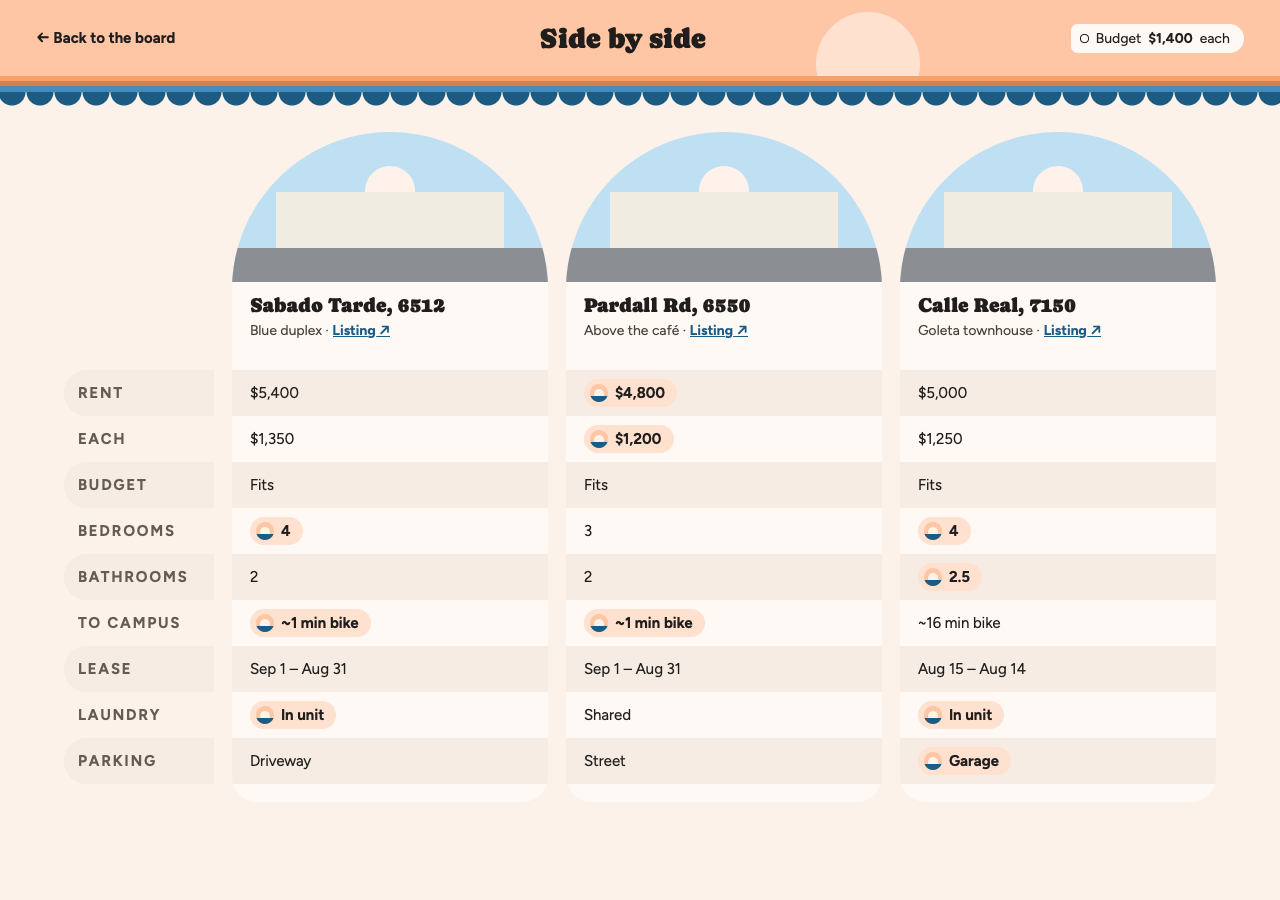
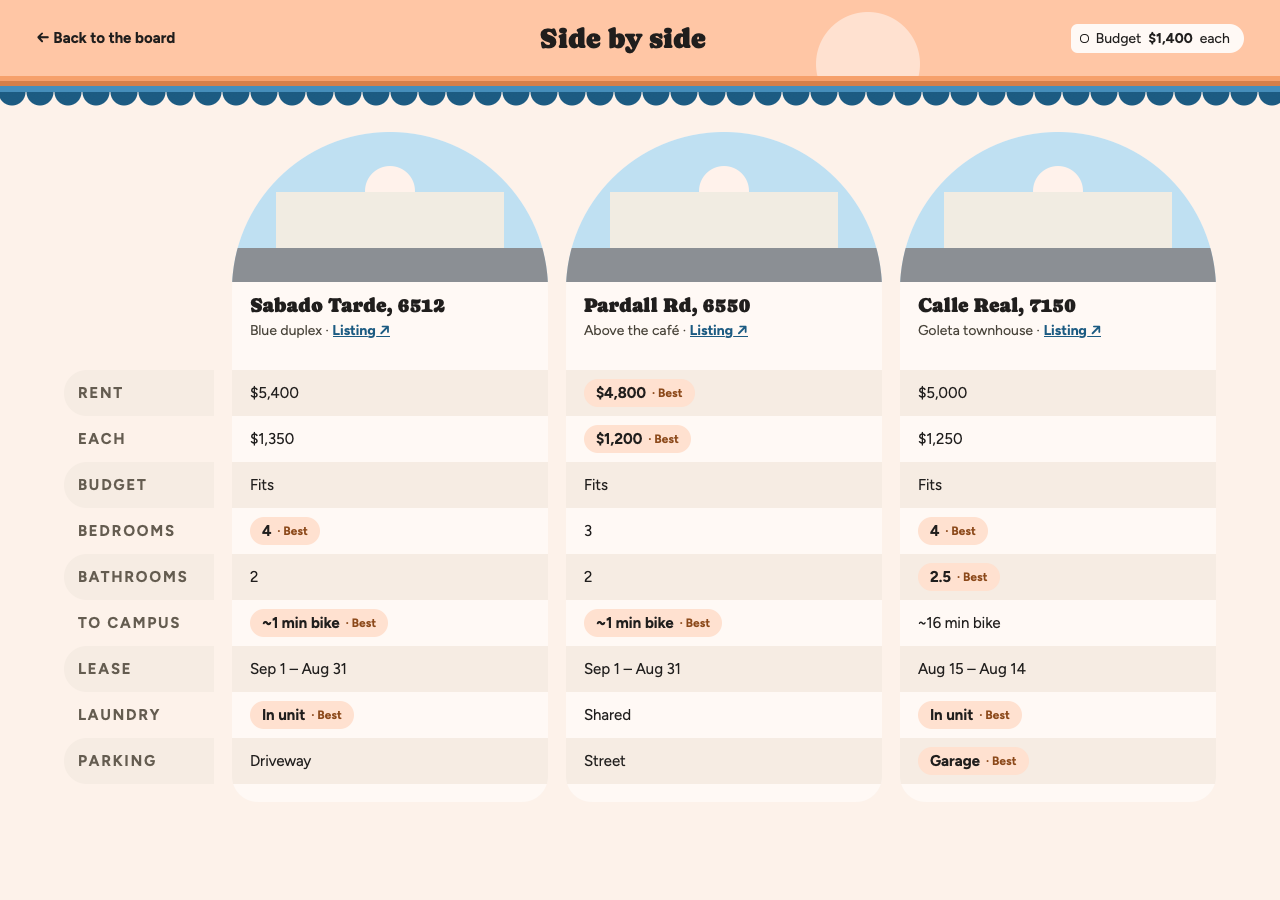
Docs: familiar symbols for controls
Star stays for the shortlist, the rank fit is five one-color boards with
the number, and Compare says Best instead of using the sun, which only
means "Corral found this".

diff --git a/docs/handoff/identity-pass/designs/rank.html b/docs/handoff/identity-pass/designs/rank.html
@@ -151,16 +151,17 @@ body{margin:0}
               <span class="f" style="font-size: 20px">$1,350 each</span>
             </div>
             <div aria-label="Fit 6.3 out of 10" style="display: flex; align-items: flex-end; gap: 3px; height: 22px">
-              <span style="width: 8px; height: 16px; border-radius: 4px 4px 1px 1px; background: #f6a06b"></span><span style="width: 8px; height: 20px; border-radius: 4px 4px 1px 1px; background: #d67f48"></span><span style="width: 8px; height: 14px; border-radius: 4px 4px 1px 1px; background: #458ebb"></span><span style="width: 8px; height: 18px; border-radius: 4px 4px 1px 1px; background: #1c5b82"></span><span style="width: 8px; height: 22px; border-radius: 4px 4px 1px 1px; background: #8fa073"></span><span style="width: 8px; height: 15px; border-radius: 4px 4px 1px 1px; background: #f6a06b"></span><span style="width: 8px; height: 19px; border-radius: 4px 4px 1px 1px; background: #eadfd3"></span><span style="width: 8px; height: 17px; border-radius: 4px 4px 1px 1px; background: #eadfd3"></span><span style="width: 8px; height: 21px; border-radius: 4px 4px 1px 1px; background: #eadfd3"></span><span style="width: 8px; height: 16px; border-radius: 4px 4px 1px 1px; background: #eadfd3"></span>
-              <span style="margin-left: 8px; font-size: 13px; font-weight: 700; color: #474238">Good fit</span>
+              <span style="width: 12px; height: 22px; border-radius: 6px 6px 2px 2px; background: linear-gradient(to top, #1c5b82 100%, transparent 100%); box-shadow: inset 0 0 0 1.5px #1c5b82"></span><span style="width: 12px; height: 22px; border-radius: 6px 6px 2px 2px; background: linear-gradient(to top, #1c5b82 100%, transparent 100%); box-shadow: inset 0 0 0 1.5px #1c5b82"></span><span style="width: 12px; height: 22px; border-radius: 6px 6px 2px 2px; background: linear-gradient(to top, #1c5b82 100%, transparent 100%); box-shadow: inset 0 0 0 1.5px #1c5b82"></span><span style="width: 12px; height: 22px; border-radius: 6px 6px 2px 2px; background: linear-gradient(to top, #1c5b82 0%, transparent 0%); box-shadow: inset 0 0 0 1.5px #1c5b82"></span><span style="width: 12px; height: 22px; border-radius: 6px 6px 2px 2px; background: linear-gradient(to top, #1c5b82 0%, transparent 0%); box-shadow: inset 0 0 0 1.5px #1c5b82"></span>
+              <span class="f" style="margin-left: 10px; font-size: 18px">6.3</span>
+              <span style="font-size: 14px; font-weight: 700; color: #474238">· Good fit</span>
             </div>
             
               <span style="display: flex; align-items: center; gap: 8px; font-size: 14px; color: #474238">
-                <span aria-hidden="true" style="width: 14px; height: 14px; border-radius: 7px; flex-shrink: 0; background: #ffc6a5; box-shadow: inset 0 -5px 0 #1c5b82"></span>About 1 min bike to campus
+                <span style="width: 14px; flex-shrink: 0; text-align: center; font-weight: 700; color: #1c5b82">+</span>About 1 min bike to campus
               </span>
             
               <span style="display: flex; align-items: center; gap: 8px; font-size: 14px; color: #474238">
-                <span aria-hidden="true" style="width: 14px; height: 14px; border-radius: 7px; flex-shrink: 0; background: #e5f5fd; box-shadow: inset 0 -5px 0 #82796a"></span>Only $50 under your max
+                <span style="width: 14px; flex-shrink: 0; text-align: center; font-weight: 700; color: #b2622d">−</span>Only $50 under your max
               </span>
             
             <div style="display: flex; align-items: center; gap: 18px; margin-top: auto">
@@ -186,16 +187,17 @@ body{margin:0}
               <span class="f" style="font-size: 20px">$1,200 each</span>
             </div>
             <div aria-label="Fit 6.2 out of 10" style="display: flex; align-items: flex-end; gap: 3px; height: 22px">
-              <span style="width: 8px; height: 16px; border-radius: 4px 4px 1px 1px; background: #f6a06b"></span><span style="width: 8px; height: 20px; border-radius: 4px 4px 1px 1px; background: #d67f48"></span><span style="width: 8px; height: 14px; border-radius: 4px 4px 1px 1px; background: #458ebb"></span><span style="width: 8px; height: 18px; border-radius: 4px 4px 1px 1px; background: #1c5b82"></span><span style="width: 8px; height: 22px; border-radius: 4px 4px 1px 1px; background: #8fa073"></span><span style="width: 8px; height: 15px; border-radius: 4px 4px 1px 1px; background: #f6a06b"></span><span style="width: 8px; height: 19px; border-radius: 4px 4px 1px 1px; background: #eadfd3"></span><span style="width: 8px; height: 17px; border-radius: 4px 4px 1px 1px; background: #eadfd3"></span><span style="width: 8px; height: 21px; border-radius: 4px 4px 1px 1px; background: #eadfd3"></span><span style="width: 8px; height: 16px; border-radius: 4px 4px 1px 1px; background: #eadfd3"></span>
-              <span style="margin-left: 8px; font-size: 13px; font-weight: 700; color: #474238">Good fit</span>
+              <span style="width: 12px; height: 22px; border-radius: 6px 6px 2px 2px; background: linear-gradient(to top, #1c5b82 100%, transparent 100%); box-shadow: inset 0 0 0 1.5px #1c5b82"></span><span style="width: 12px; height: 22px; border-radius: 6px 6px 2px 2px; background: linear-gradient(to top, #1c5b82 100%, transparent 100%); box-shadow: inset 0 0 0 1.5px #1c5b82"></span><span style="width: 12px; height: 22px; border-radius: 6px 6px 2px 2px; background: linear-gradient(to top, #1c5b82 100%, transparent 100%); box-shadow: inset 0 0 0 1.5px #1c5b82"></span><span style="width: 12px; height: 22px; border-radius: 6px 6px 2px 2px; background: linear-gradient(to top, #1c5b82 0%, transparent 0%); box-shadow: inset 0 0 0 1.5px #1c5b82"></span><span style="width: 12px; height: 22px; border-radius: 6px 6px 2px 2px; background: linear-gradient(to top, #1c5b82 0%, transparent 0%); box-shadow: inset 0 0 0 1.5px #1c5b82"></span>
+              <span class="f" style="margin-left: 10px; font-size: 18px">6.2</span>
+              <span style="font-size: 14px; font-weight: 700; color: #474238">· Good fit</span>
             </div>
             
               <span style="display: flex; align-items: center; gap: 8px; font-size: 14px; color: #474238">
-                <span aria-hidden="true" style="width: 14px; height: 14px; border-radius: 7px; flex-shrink: 0; background: #ffc6a5; box-shadow: inset 0 -5px 0 #1c5b82"></span>About 1 min bike to campus
+                <span style="width: 14px; flex-shrink: 0; text-align: center; font-weight: 700; color: #1c5b82">+</span>About 1 min bike to campus
               </span>
             
               <span style="display: flex; align-items: center; gap: 8px; font-size: 14px; color: #474238">
-                <span aria-hidden="true" style="width: 14px; height: 14px; border-radius: 7px; flex-shrink: 0; background: #e5f5fd; box-shadow: inset 0 -5px 0 #82796a"></span>3 bedrooms for 4 people
+                <span style="width: 14px; flex-shrink: 0; text-align: center; font-weight: 700; color: #b2622d">−</span>3 bedrooms for 4 people
               </span>
             
             <div style="display: flex; align-items: center; gap: 18px; margin-top: auto">
@@ -221,16 +223,17 @@ body{margin:0}
               <span class="f" style="font-size: 20px">$1,250 each</span>
             </div>
             <div aria-label="Fit 5.6 out of 10" style="display: flex; align-items: flex-end; gap: 3px; height: 22px">
-              <span style="width: 8px; height: 16px; border-radius: 4px 4px 1px 1px; background: #f6a06b"></span><span style="width: 8px; height: 20px; border-radius: 4px 4px 1px 1px; background: #d67f48"></span><span style="width: 8px; height: 14px; border-radius: 4px 4px 1px 1px; background: #458ebb"></span><span style="width: 8px; height: 18px; border-radius: 4px 4px 1px 1px; background: #1c5b82"></span><span style="width: 8px; height: 22px; border-radius: 4px 4px 1px 1px; background: #8fa073"></span><span style="width: 8px; height: 15px; border-radius: 4px 4px 1px 1px; background: #f6a06b"></span><span style="width: 8px; height: 19px; border-radius: 4px 4px 1px 1px; background: #eadfd3"></span><span style="width: 8px; height: 17px; border-radius: 4px 4px 1px 1px; background: #eadfd3"></span><span style="width: 8px; height: 21px; border-radius: 4px 4px 1px 1px; background: #eadfd3"></span><span style="width: 8px; height: 16px; border-radius: 4px 4px 1px 1px; background: #eadfd3"></span>
-              <span style="margin-left: 8px; font-size: 13px; font-weight: 700; color: #474238">Okay fit</span>
+              <span style="width: 12px; height: 22px; border-radius: 6px 6px 2px 2px; background: linear-gradient(to top, #1c5b82 100%, transparent 100%); box-shadow: inset 0 0 0 1.5px #1c5b82"></span><span style="width: 12px; height: 22px; border-radius: 6px 6px 2px 2px; background: linear-gradient(to top, #1c5b82 100%, transparent 100%); box-shadow: inset 0 0 0 1.5px #1c5b82"></span><span style="width: 12px; height: 22px; border-radius: 6px 6px 2px 2px; background: linear-gradient(to top, #1c5b82 100%, transparent 100%); box-shadow: inset 0 0 0 1.5px #1c5b82"></span><span style="width: 12px; height: 22px; border-radius: 6px 6px 2px 2px; background: linear-gradient(to top, #1c5b82 0%, transparent 0%); box-shadow: inset 0 0 0 1.5px #1c5b82"></span><span style="width: 12px; height: 22px; border-radius: 6px 6px 2px 2px; background: linear-gradient(to top, #1c5b82 0%, transparent 0%); box-shadow: inset 0 0 0 1.5px #1c5b82"></span>
+              <span class="f" style="margin-left: 10px; font-size: 18px">5.6</span>
+              <span style="font-size: 14px; font-weight: 700; color: #474238">· Okay fit</span>
             </div>
             
               <span style="display: flex; align-items: center; gap: 8px; font-size: 14px; color: #474238">
-                <span aria-hidden="true" style="width: 14px; height: 14px; border-radius: 7px; flex-shrink: 0; background: #ffc6a5; box-shadow: inset 0 -5px 0 #1c5b82"></span>4 bedrooms for 4 people
+                <span style="width: 14px; flex-shrink: 0; text-align: center; font-weight: 700; color: #1c5b82">+</span>4 bedrooms for 4 people
               </span>
             
               <span style="display: flex; align-items: center; gap: 8px; font-size: 14px; color: #474238">
-                <span aria-hidden="true" style="width: 14px; height: 14px; border-radius: 7px; flex-shrink: 0; background: #e5f5fd; box-shadow: inset 0 -5px 0 #82796a"></span>16 min bike to campus
+                <span style="width: 14px; flex-shrink: 0; text-align: center; font-weight: 700; color: #b2622d">−</span>16 min bike to campus
               </span>
             
             <div style="display: flex; align-items: center; gap: 18px; margin-top: auto">

diff --git a/docs/handoff/identity-pass/designs/compare.html b/docs/handoff/identity-pass/designs/compare.html
@@ -6,7 +6,7 @@ body{margin:0}
 .f{font-family:Caprasimo,Georgia,serif;font-weight:400}
 .k{font-size:11px;font-weight:700;letter-spacing:.12em;text-transform:uppercase;color:#645c50}
 .cell{height:46px;display:flex;align-items:center;padding:0 18px;font-size:15px}
-.win{display:inline-flex;align-items:center;gap:7px;background:#ffe1d0;border-radius:999px;padding:5px 12px 5px 6px;font-weight:700}
+.win{display:inline-flex;align-items:center;gap:6px;background:#ffe1d0;border-radius:999px;padding:5px 12px;font-weight:700}
 .sun{width:18px;height:18px;border-radius:9px;background:#ffc6a5;position:relative;overflow:hidden;flex-shrink:0}
 .sun:before{content:"";position:absolute;left:4px;top:5px;width:10px;height:10px;border-radius:5px;background:#fff2eb}
 .sun:after{content:"";position:absolute;left:0;right:0;bottom:0;height:6px;background:#1c5b82}
@@ -77,7 +77,7 @@ body{margin:0}
           </div>
         
           <div class="cell" style="background: transparent">
-            <span class="win"><span class="sun" aria-hidden="true"></span>4<span style="position: absolute; width: 1px; height: 1px; overflow: hidden; clip: rect(0 0 0 0)">(best)</span></span>
+            <span class="win">4<span style="font-size: 12px; font-weight: 700; color: #8c491a">· Best</span></span>
             
           </div>
         
@@ -87,7 +87,7 @@ body{margin:0}
           </div>
         
           <div class="cell" style="background: transparent">
-            <span class="win"><span class="sun" aria-hidden="true"></span>~1 min bike<span style="position: absolute; width: 1px; height: 1px; overflow: hidden; clip: rect(0 0 0 0)">(best)</span></span>
+            <span class="win">~1 min bike<span style="font-size: 12px; font-weight: 700; color: #8c491a">· Best</span></span>
             
           </div>
         
@@ -97,7 +97,7 @@ body{margin:0}
           </div>
         
           <div class="cell" style="background: transparent">
-            <span class="win"><span class="sun" aria-hidden="true"></span>In unit<span style="position: absolute; width: 1px; height: 1px; overflow: hidden; clip: rect(0 0 0 0)">(best)</span></span>
+            <span class="win">In unit<span style="font-size: 12px; font-weight: 700; color: #8c491a">· Best</span></span>
             
           </div>
         
@@ -120,12 +120,12 @@ body{margin:0}
         </div>
         
           <div class="cell" style="background: #f6ece3">
-            <span class="win"><span class="sun" aria-hidden="true"></span>$4,800<span style="position: absolute; width: 1px; height: 1px; overflow: hidden; clip: rect(0 0 0 0)">(best)</span></span>
+            <span class="win">$4,800<span style="font-size: 12px; font-weight: 700; color: #8c491a">· Best</span></span>
             
           </div>
         
           <div class="cell" style="background: transparent">
-            <span class="win"><span class="sun" aria-hidden="true"></span>$1,200<span style="position: absolute; width: 1px; height: 1px; overflow: hidden; clip: rect(0 0 0 0)">(best)</span></span>
+            <span class="win">$1,200<span style="font-size: 12px; font-weight: 700; color: #8c491a">· Best</span></span>
             
           </div>
         
@@ -145,7 +145,7 @@ body{margin:0}
           </div>
         
           <div class="cell" style="background: transparent">
-            <span class="win"><span class="sun" aria-hidden="true"></span>~1 min bike<span style="position: absolute; width: 1px; height: 1px; overflow: hidden; clip: rect(0 0 0 0)">(best)</span></span>
+            <span class="win">~1 min bike<span style="font-size: 12px; font-weight: 700; color: #8c491a">· Best</span></span>
             
           </div>
         
@@ -193,12 +193,12 @@ body{margin:0}
           </div>
         
           <div class="cell" style="background: transparent">
-            <span class="win"><span class="sun" aria-hidden="true"></span>4<span style="position: absolute; width: 1px; height: 1px; overflow: hidden; clip: rect(0 0 0 0)">(best)</span></span>
+            <span class="win">4<span style="font-size: 12px; font-weight: 700; color: #8c491a">· Best</span></span>
             
           </div>
         
           <div class="cell" style="background: #f6ece3">
-            <span class="win"><span class="sun" aria-hidden="true"></span>2.5<span style="position: absolute; width: 1px; height: 1px; overflow: hidden; clip: rect(0 0 0 0)">(best)</span></span>
+            <span class="win">2.5<span style="font-size: 12px; font-weight: 700; color: #8c491a">· Best</span></span>
             
           </div>
         
@@ -213,12 +213,12 @@ body{margin:0}
           </div>
         
           <div class="cell" style="background: transparent">
-            <span class="win"><span class="sun" aria-hidden="true"></span>In unit<span style="position: absolute; width: 1px; height: 1px; overflow: hidden; clip: rect(0 0 0 0)">(best)</span></span>
+            <span class="win">In unit<span style="font-size: 12px; font-weight: 700; color: #8c491a">· Best</span></span>
             
           </div>
         
           <div class="cell" style="background: #f6ece3">
-            <span class="win"><span class="sun" aria-hidden="true"></span>Garage<span style="position: absolute; width: 1px; height: 1px; overflow: hidden; clip: rect(0 0 0 0)">(best)</span></span>
+            <span class="win">Garage<span style="font-size: 12px; font-weight: 700; color: #8c491a">· Best</span></span>
             
           </div>
         

diff --git a/docs/handoff/identity-pass/designs/status.html b/docs/handoff/identity-pass/designs/status.html
@@ -50,7 +50,7 @@ body{margin:0}
               <div style="min-width: 0; flex: 1; display: flex; flex-direction: column; gap: 3px">
                 <div style="display: flex; align-items: flex-start; gap: 6px">
                   <h3 class="f" style="margin: 0; font-size: 16px; line-height: 1.15; flex: 1">Trigo Rd, 6545</h3>
-                  <svg width="20" height="20" viewBox="0 0 24 24" fill="none" stroke="#c0b6a5" stroke-width="3" stroke-linecap="round" aria-label="Not a favorite"><path d="M6 4v7a6 6 0 0 0 12 0V4"/></svg>
+                  <svg width="20" height="20" viewBox="0 0 24 24" fill="none" stroke="#82796a" stroke-width="2" stroke-linejoin="round" aria-label="Not on the shortlist"><polygon points="12 2.5 14.9 8.4 21.4 9.3 16.7 13.9 17.8 20.4 12 17.3 6.2 20.4 7.3 13.9 2.6 9.3 9.1 8.4"/></svg>
                 </div>
                 <span style="font-size: 13px; color: #474238">Upstairs 3BR · 3 bd · 1 ba</span>
                 <span class="f" style="font-size: 16px">Rent not listed</span>
@@ -69,7 +69,7 @@ body{margin:0}
               <div style="min-width: 0; flex: 1; display: flex; flex-direction: column; gap: 3px">
                 <div style="display: flex; align-items: flex-start; gap: 6px">
                   <h3 class="f" style="margin: 0; font-size: 16px; line-height: 1.15; flex: 1">Pardall Rd, 6550</h3>
-                  <svg width="20" height="20" viewBox="0 0 24 24" fill="none" stroke="#c0b6a5" stroke-width="3" stroke-linecap="round" aria-label="Not a favorite"><path d="M6 4v7a6 6 0 0 0 12 0V4"/></svg>
+                  <svg width="20" height="20" viewBox="0 0 24 24" fill="none" stroke="#82796a" stroke-width="2" stroke-linejoin="round" aria-label="Not on the shortlist"><polygon points="12 2.5 14.9 8.4 21.4 9.3 16.7 13.9 17.8 20.4 12 17.3 6.2 20.4 7.3 13.9 2.6 9.3 9.1 8.4"/></svg>
                 </div>
                 <span style="font-size: 13px; color: #474238">Above the café · 3 bd · 2 ba</span>
                 <span class="f" style="font-size: 16px">$4,800</span>
@@ -99,7 +99,7 @@ body{margin:0}
               <div style="min-width: 0; flex: 1; display: flex; flex-direction: column; gap: 3px">
                 <div style="display: flex; align-items: flex-start; gap: 6px">
                   <h3 class="f" style="margin: 0; font-size: 16px; line-height: 1.15; flex: 1">Sabado Tarde, 6512</h3>
-                  <svg width="20" height="20" viewBox="0 0 24 24" fill="none" stroke="#b2622d" stroke-width="3" stroke-linecap="round" aria-label="A favorite"><path d="M6 4v7a6 6 0 0 0 12 0V4"/></svg>
+                  <svg width="20" height="20" viewBox="0 0 24 24" fill="#d67f48" stroke="#b2622d" stroke-width="2" stroke-linejoin="round" aria-label="On the shortlist"><polygon points="12 2.5 14.9 8.4 21.4 9.3 16.7 13.9 17.8 20.4 12 17.3 6.2 20.4 7.3 13.9 2.6 9.3 9.1 8.4"/></svg>
                 </div>
                 <span style="font-size: 13px; color: #474238">Blue duplex · 4 bd · 2 ba</span>
                 <span class="f" style="font-size: 16px">$5,400</span>
@@ -135,7 +135,7 @@ body{margin:0}
               <div style="min-width: 0; flex: 1; display: flex; flex-direction: column; gap: 3px">
                 <div style="display: flex; align-items: flex-start; gap: 6px">
                   <h3 class="f" style="margin: 0; font-size: 16px; line-height: 1.15; flex: 1">Del Playa, 6680</h3>
-                  <svg width="20" height="20" viewBox="0 0 24 24" fill="none" stroke="#b2622d" stroke-width="3" stroke-linecap="round" aria-label="A favorite"><path d="M6 4v7a6 6 0 0 0 12 0V4"/></svg>
+                  <svg width="20" height="20" viewBox="0 0 24 24" fill="#d67f48" stroke="#b2622d" stroke-width="2" stroke-linejoin="round" aria-label="On the shortlist"><polygon points="12 2.5 14.9 8.4 21.4 9.3 16.7 13.9 17.8 20.4 12 17.3 6.2 20.4 7.3 13.9 2.6 9.3 9.1 8.4"/></svg>
                 </div>
                 <span style="font-size: 13px; color: #474238">Oceanside upstairs · 5 bd · 2 ba</span>
                 <span class="f" style="font-size: 16px">$7,200</span>
@@ -171,7 +171,7 @@ body{margin:0}
               <div style="min-width: 0; flex: 1; display: flex; flex-direction: column; gap: 3px">
                 <div style="display: flex; align-items: flex-start; gap: 6px">
                   <h3 class="f" style="margin: 0; font-size: 16px; line-height: 1.15; flex: 1">Calle Real, 7150</h3>
-                  <svg width="20" height="20" viewBox="0 0 24 24" fill="none" stroke="#c0b6a5" stroke-width="3" stroke-linecap="round" aria-label="Not a favorite"><path d="M6 4v7a6 6 0 0 0 12 0V4"/></svg>
+                  <svg width="20" height="20" viewBox="0 0 24 24" fill="none" stroke="#82796a" stroke-width="2" stroke-linejoin="round" aria-label="Not on the shortlist"><polygon points="12 2.5 14.9 8.4 21.4 9.3 16.7 13.9 17.8 20.4 12 17.3 6.2 20.4 7.3 13.9 2.6 9.3 9.1 8.4"/></svg>
                 </div>
                 <span style="font-size: 13px; color: #474238">Goleta townhouse · 4 bd · 2.5 ba</span>
                 <span class="f" style="font-size: 16px">$5,000</span>

diff --git a/docs/handoff/identity-pass/designs/pieces.html b/docs/handoff/identity-pass/designs/pieces.html
@@ -18,18 +18,18 @@ body{margin:0}
   <div style="display: grid; grid-template-columns: repeat(3, minmax(0, 1fr)); gap: 18px; align-content: start">
 
     <section class="box" aria-labelledby="p1">
-      <h2 id="p1" class="k">Favorite · a lucky horseshoe</h2>
+      <h2 id="p1" class="k">Shortlist · the star, in Corral colors</h2>
       <div style="display: flex; align-items: center; gap: 28px; padding: 8px 0">
         <span style="display: flex; flex-direction: column; align-items: center; gap: 6px; font-size: 13px; color: #645c50">
-          <svg width="40" height="40" viewBox="0 0 24 24" fill="none" stroke="#b2622d" stroke-width="3.2" stroke-linecap="round" aria-hidden="true"><path d="M6 4v7a6 6 0 0 0 12 0V4"/><circle cx="6.2" cy="9" r=".6" fill="#fff9f5" stroke="none"/><circle cx="17.8" cy="9" r=".6" fill="#fff9f5" stroke="none"/></svg>
-          A favorite
+          <svg width="40" height="40" viewBox="0 0 24 24" fill="#d67f48" stroke="#b2622d" stroke-width="1.8" stroke-linejoin="round" aria-hidden="true"><polygon points="12 2.5 14.9 8.4 21.4 9.3 16.7 13.9 17.8 20.4 12 17.3 6.2 20.4 7.3 13.9 2.6 9.3 9.1 8.4"/></svg>
+          On the shortlist
         </span>
         <span style="display: flex; flex-direction: column; align-items: center; gap: 6px; font-size: 13px; color: #645c50">
-          <svg width="40" height="40" viewBox="0 0 24 24" fill="none" stroke="#c0b6a5" stroke-width="2.2" stroke-linecap="round" aria-hidden="true"><path d="M6 4v7a6 6 0 0 0 12 0V4"/></svg>
+          <svg width="40" height="40" viewBox="0 0 24 24" fill="none" stroke="#82796a" stroke-width="1.8" stroke-linejoin="round" aria-hidden="true"><polygon points="12 2.5 14.9 8.4 21.4 9.3 16.7 13.9 17.8 20.4 12 17.3 6.2 20.4 7.3 13.9 2.6 9.3 9.1 8.4"/></svg>
           Not yet
         </span>
       </div>
-      <p class="note" style="margin-top: 6px">Replaces the star. Ranch luck, and it reads as “keep this one.”</p>
+      <p class="note" style="margin-top: 6px">Controls stay familiar: everyone knows a star. Corral’s part is the sunset color.</p>
     </section>
 
     <section class="box" aria-labelledby="p2">

diff --git a/docs/handoff/identity-pass/designs/phone-status.html b/docs/handoff/identity-pass/designs/phone-status.html
@@ -57,7 +57,7 @@ body{margin:0}
         <div style="flex: 1; display: flex; flex-direction: column; gap: 4px">
           <div style="display: flex; gap: 6px; align-items: flex-start">
             <h3 class="f" style="margin: 0; font-size: 18px; flex: 1">Sabado Tarde, 6512</h3>
-            <svg width="22" height="22" viewBox="0 0 24 24" fill="none" stroke="#b2622d" stroke-width="3" stroke-linecap="round" aria-label="A favorite"><path d="M6 4v7a6 6 0 0 0 12 0V4"/></svg>
+            <svg width="22" height="22" viewBox="0 0 24 24" fill="#d67f48" stroke="#b2622d" stroke-width="2" stroke-linejoin="round" aria-label="On the shortlist"><polygon points="12 2.5 14.9 8.4 21.4 9.3 16.7 13.9 17.8 20.4 12 17.3 6.2 20.4 7.3 13.9 2.6 9.3 9.1 8.4"/></svg>
           </div>
           <span style="font-size: 14px; color: #474238">Blue duplex · 4 bd · 2 ba</span>
           <span class="f" style="font-size: 18px">$5,400</span>

diff --git a/docs/handoff/identity-pass/BRIEF.md b/docs/handoff/identity-pass/BRIEF.md
@@ -21,6 +21,7 @@
 - The demo (`/demo`) uses localStorage only and must never touch the database.
 - Use the Tailwind tokens in `app/globals.css` (`shell`, `sunset-*`, `sea-*`, `glass-*`, `stone-*`, `st-*`), not raw hex. The hex-to-token table is below.
 - **Little small print.** No helper sentence under every heading or label. No sparkles for AI. No pale info boxes with an icon. No ruled lines between sections. Lucide icons are fine only for plain controls (close, back, plus, minus, chevrons).
+- **Motifs for decoration, counts and scenes; familiar symbols for controls.** A control whose meaning isn't obvious gets a familiar symbol or a word. One symbol means one thing everywhere.
 - Respect `prefers-reduced-motion`. Any new animation gets a reduced-motion override in `app/globals.css`, like the existing `corral-*` ones.
 - Accessibility stays at least as good as now: real buttons and radios, visible focus rings (`ring-focus`), accessible names, and contrast that passes AA.
 - **Keep accessible names stable where tests use them**, or update the tests in the same commit:
@@ -71,23 +72,23 @@ Status colors already exist as `st-<status>`, `st-<status>-bg` and `st-<status>-
 Create these, each small and documented. Put icons in `components/brand/motifs.tsx` and the rest in a new `components/board/fields.tsx`.
 
 - **Move the add-flow helpers.** Move `Tile`, `Stepper`, `Choices` and `FieldError` from `add-place.tsx` into `components/board/fields.tsx` and export them. The add flow imports them from there; it must look and behave exactly the same.
-- **`HorseshoeIcon`** (the favorite). A U-shaped horseshoe, open end up: path `M6 4v7a6 6 0 0 0 12 0V4`, stroke ~3, round caps. Favorite: `sunset-600`, thicker. Not favorite: `stone-400`, thinner. See `designs/pieces.png`.
+- **Shortlist star.** Keep the star (a horseshoe was tried and dropped: nobody guesses what it means). On: filled `sunset-500` with a `sunset-600` outline. Off: `stone-600` outline. See `designs/pieces.png`.
 - **`RopeInToggle`** (compare). Uses `LassoIcon`. Off: dashed stroke in `stone-600`, label "Rope in". On: solid `sea-700` with a light `sea` fill, label "Roped in". It's a toggle button (`aria-pressed`) whose accessible name stays `Compare <place>`.
 - **`RopeTagButton`.** The rent-tag shape (`rounded-l-[10px] rounded-r-[20px]`, with a small knot dot on the left) used as a button. Colors come from props.
   - Don't write `999px` on one side and a small radius on the other: browsers scale every corner down and the tag turns into a box. Use about half the height on the round side.
 - **`EmptyLot`** (no photo). A pale sunset sky (`sunset-200`), a sun (`sunset-100`) sitting on a row of fence boards in `FENCE_COLORS`. It fills whatever fence-board frame it's in. It replaces `FenceFallback` and the "No street photo here" text wherever a place has no photo (list thumbnails, place card, status cards, compare columns, rank cards). Purely decorative: `aria-hidden`.
-- **`FitFence`** (rank score). 10 small fence boards, slightly varied heights. Round the score to whole boards and color the filled ones in `FENCE_COLORS` order; the rest are `shell-deep`. Next to it, one word:
+- **`FitFence`** (rank score). Five equal fence boards, read like a five-star rating: each board is 2 points, filled from the bottom in `sea-700` (full, half, or empty, rounded to the nearest half), with a `sea-700` outline. One color only: mixed colors read as decoration. Next to it, the number in `font-display` and one word ("6.3 · Good fit"):
   - 8 and up: "Great fit"
   - 6 and up: "Good fit"
   - 4 and up: "Okay fit"
   - otherwise: "Long shot"
 
-  Keep the number available: give the element `aria-label="Fit 6.3 out of 10"`, and show the number in the "See the math" breakdown.
+  Give the meter `aria-label="Fit 6.3 out of 10"`.
 - **`GateLoading`.** Five fence boards rising one after another, with "Opening the gate…" under them. It replaces the gray pulsing skeleton in `board.tsx` (`aria-busy` stays). Reduced motion: show the boards standing, no animation.
 
 ### 2. Favorite and compare everywhere
 
-- Swap the star for the horseshoe in `listing-row.tsx` (`StarButton`), `status-board.tsx` (`StarOverlay`) and `place-card.tsx`. Keep the same props, the same `aria-pressed` and the same shortlist labels.
+- Restyle the star (see step 1) in `listing-row.tsx` (`StarButton`), `status-board.tsx` (`StarOverlay`) and `place-card.tsx`. Keep the same props, the same `aria-pressed` and the same shortlist labels.
 - Swap the compare circle and checkbox for `RopeInToggle` in `listing-row.tsx` and `rank-view.tsx`.
 - `CompareTray` (`compare-view.tsx`): show the count as fence boards (one solid board per roped place, a dashed one for each open slot up to 3), plus "N roped in". The button reads "Side by side" and opens the same Compare view as now.
 
@@ -103,7 +104,7 @@ Replace the no-photo states with `EmptyLot` (see step 1). Remove the dashed-buil
 - The column header is centered: a mini fence with one board per place (`FenceCount`-style), the stage name in `font-display`, and "N places" under it. Drop the dot-and-uppercase label.
 - Cards are compact:
   - A fence-board thumbnail on the left (photo or `EmptyLot`).
-  - Name, horseshoe, a meta line, and rent in `font-display`.
+  - Name, star, a meta line, and rent in `font-display`.
   - The next step as one line: the roommate's little board in their color, the text, and the day.
 - Replace the "Move ▾" select with a `RopeTagButton` that moves the place to the next stage: "Move to Contacted" / "Move to Tour scheduled" / "Move to Applied". Each button is tinted with the next stage's colors.
   - Applied has no next stage, so its button reads "Move…".
@@ -125,7 +126,7 @@ Replace the no-photo states with `EmptyLot` (see step 1). Remove the dashed-buil
   - The rank number on a small fence-board badge: #1 `sunset-500`, #2 `sunset-400`, #3 `sunset-300`.
   - Name and rent per person in `font-display`.
   - `FitFence` instead of the score and bar.
-  - Reasons as lines, each with a tiny mark: a good reason gets a mini `SunMark`, a bad one a small gray "under the wave" dot. Replace the "+"/"−" signs.
+  - Reasons stay as lines with a plain "+" (`sea-700`) or "−" (`sunset-600`) in front. Don't use `SunMark` here: it means "Corral found this in the listing".
   - "Why?" becomes "See the math", opening the existing breakdown.
   - `RopeInToggle` for compare.
 - **Places that can't be ranked ("Might fit, missing info"):** a dashed `sunset-600` rope outline, with the missing fact as a dashed tag ("Rent not listed") and an "Add it" link that opens edit.
@@ -138,7 +139,7 @@ Replace the no-photo states with `EmptyLot` (see step 1). Remove the dashed-buil
 - Header band: "← Back to the board" on the left, "Side by side" centered in `font-display`, and the budget as a rent tag on the right. Use the existing band, stripe and wave.
 - Each place is a column shaped like a tall fence board (`rounded-t-[160px]`), with the street photo (or `EmptyLot`) filling the arch, then the name and the nickname with a "Listing ↗" link.
 - Rows have no ruled lines: alternate soft bands (`shell-mid` / transparent) running across the labels and every column.
-- The best value in a row gets a `sunset-200` pill with a small `SunMark` in front, plus visually hidden text "(best)", instead of the blue pill.
+- The best value in a row gets a `sunset-200` pill with a small "· Best" in `sunset-700` after the value, instead of the blue pill. No `SunMark` (it means "Corral found this").
 - Keep the existing rules for "best" and for unknown values. Columns end after their last row; they don't stretch to the bottom.
 
 ### 7. Edit a place
@@ -199,8 +200,8 @@ The edit dialog uses the add flow's check-screen layout:
 ## Done means
 
 - [ ] Every screen above matches its design closely at 1280 wide. The phone layouts work at 375 wide with no sideways scrolling.
-- [ ] No sparkle icons, pale info boxes, stars, plain checkboxes, dashed building icons or ruled section lines remain on these screens.
+- [ ] No sparkle icons, pale info boxes, plain checkboxes, dashed building icons or ruled section lines remain on these screens.
 - [ ] Lint, typecheck, unit tests, build and e2e (`desktop`, `iphone`, `safari`) all pass. Tests changed only where a label or structure really changed.
 - [ ] Reduced motion checked: no movement with `prefers-reduced-motion: reduce`.
 - [ ] One PR, one commit per step. The PR description has before/after screenshots for each screen, taken in Safari's engine (`npx playwright test --project=safari`, or a Playwright WebKit script).
-- [ ] README → "Design identity" has rows for the new motifs (horseshoe = favorite, lasso = compare, empty lot = no photo, fit fence = rank score, rope-tag button = move along).
+- [ ] README → "Design identity" has rows for the new motifs (lasso = compare, empty lot = no photo, fit fence = rank score, rope-tag button = move along).

diff --git a/README.md b/README.md
@@ -52,6 +52,7 @@ Corral should be recognizable from any cropped screenshot. The palette (sunset, 
 
 **Rules**
 
+- Motifs for decoration, counts and scenes; familiar symbols for controls. A button whose meaning isn't obvious gets a familiar symbol (a star for the shortlist) or a word ("Best", "Rope in"). One symbol, one meaning: the little sun only ever means "Corral found this in the listing".
 - No generic stand-ins: no sparkles for AI, no pale info boxes with an icon, no stock dashed buttons, no stock icons where a motif or a small Corral scene says more. Lucide is fine for plain controls (close, back, plus, minus).
 - Little small print. A heading doesn't need a sentence under it. Keep a helper line only when it tells people something they'd otherwise miss (a per-person split, a pin's bike time, why a site can't be read); explain a pattern once, not on every field.
 - Moments, not cuts. Loading is a scene (the sun sets as the fence goes up), and it lands before moving on (the count, then the next screen rises in). Respect reduced motion.
